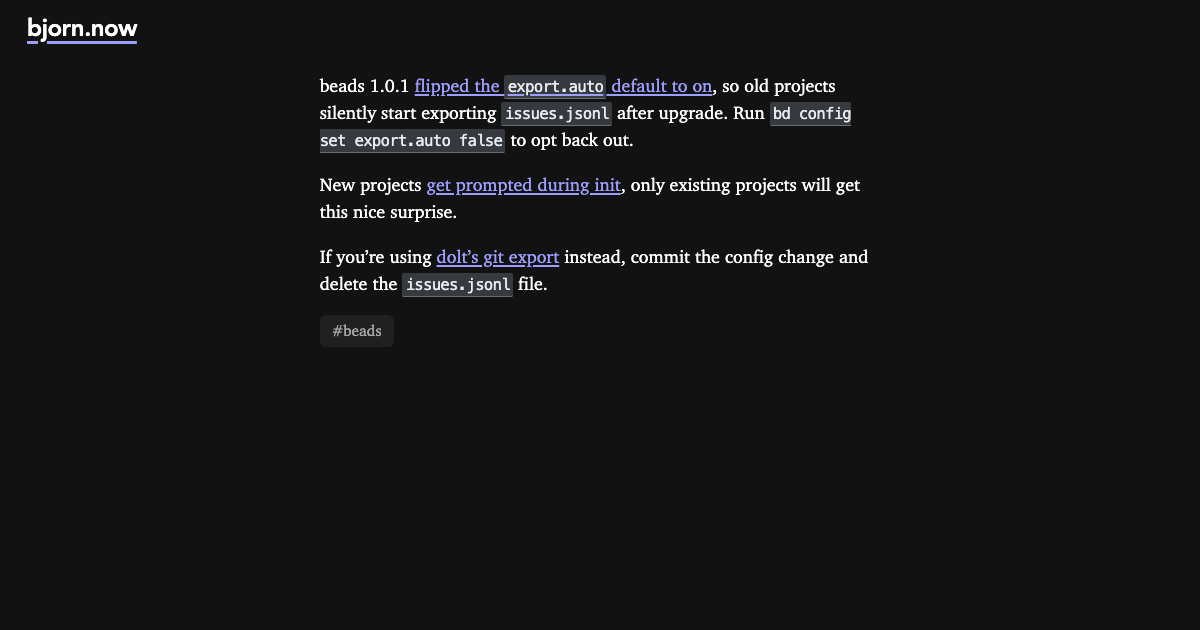
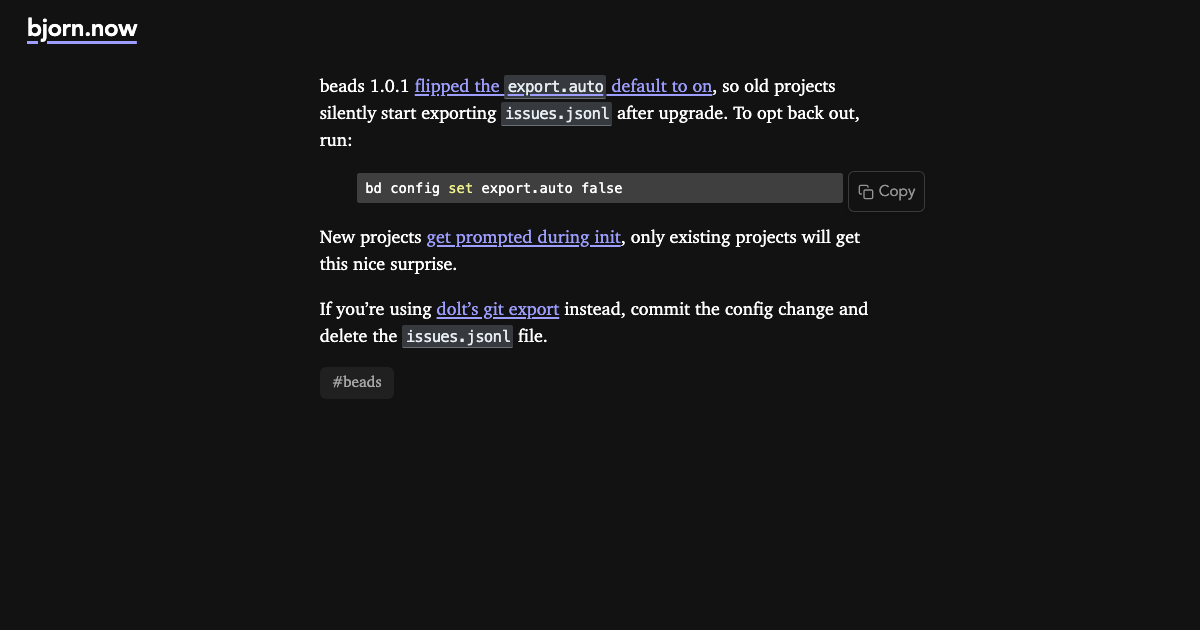
Make the example copyable

diff --git a/content/til/2026-04-24-beads-1-0-1-flipped-export-auto-default.md b/content/til/2026-04-24-beads-1-0-1-flipped-export-auto-default.md
@@ -9,7 +9,11 @@ tags: ['beads']
 daily: ['2026-04-24']
 series: []
 ---
-beads 1.0.1 [flipped the `export.auto` default to on](https://github.com/gastownhall/beads/commit/64e504d5#diff-8bba7fff92456c4a9bd807232acd9b5eaf6491c2249600c587d4da4b1ba50492R43), so old projects silently start exporting `issues.jsonl` after upgrade. Run `bd config set export.auto false` to opt back out.
+beads 1.0.1 [flipped the `export.auto` default to on](https://github.com/gastownhall/beads/commit/64e504d5#diff-8bba7fff92456c4a9bd807232acd9b5eaf6491c2249600c587d4da4b1ba50492R43), so old projects silently start exporting `issues.jsonl` after upgrade. To opt back out, run:
+
+```shell
+bd config set export.auto false
+```
 
 New projects [get prompted during init](https://github.com/gastownhall/beads/commit/64e504d5#diff-7d79935b4facccae363f0f50884254beb035cc02d5289a795d2181d31e4f20efR1638), only existing projects will get this nice surprise.
 
